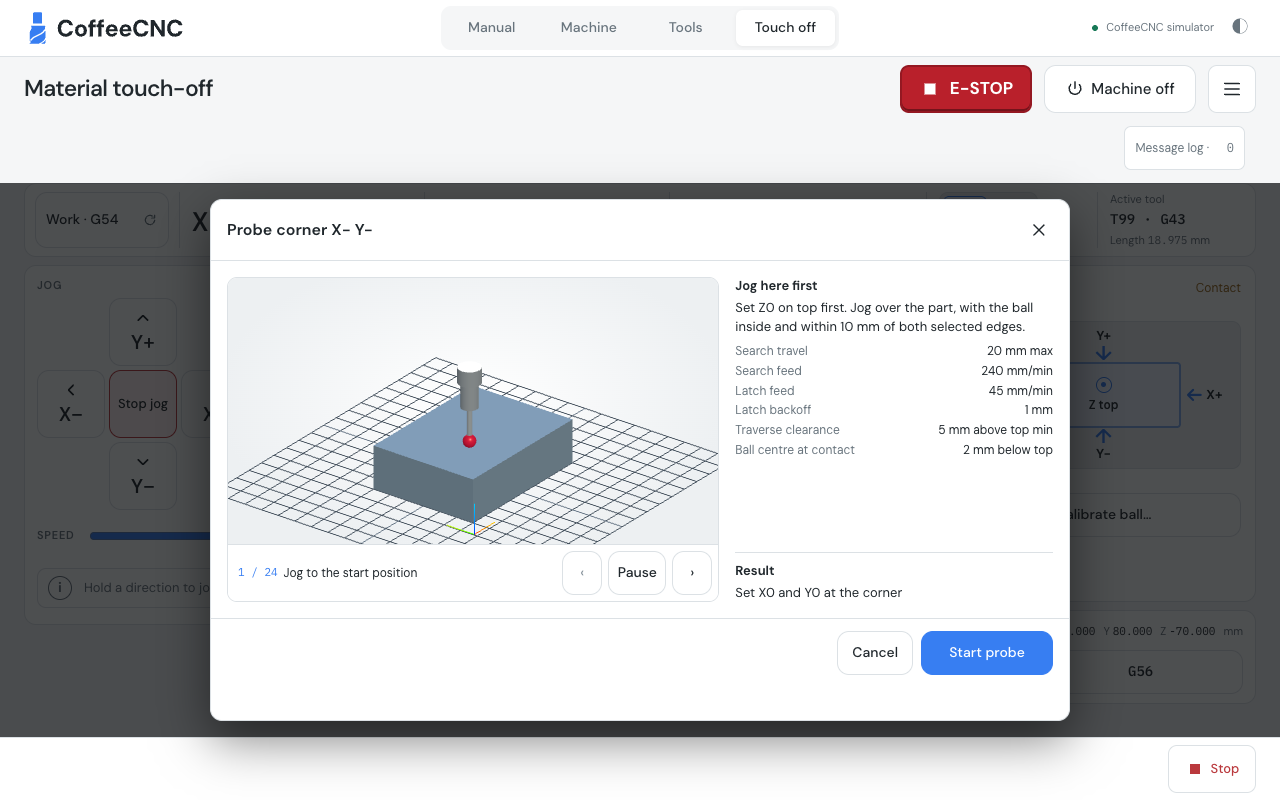
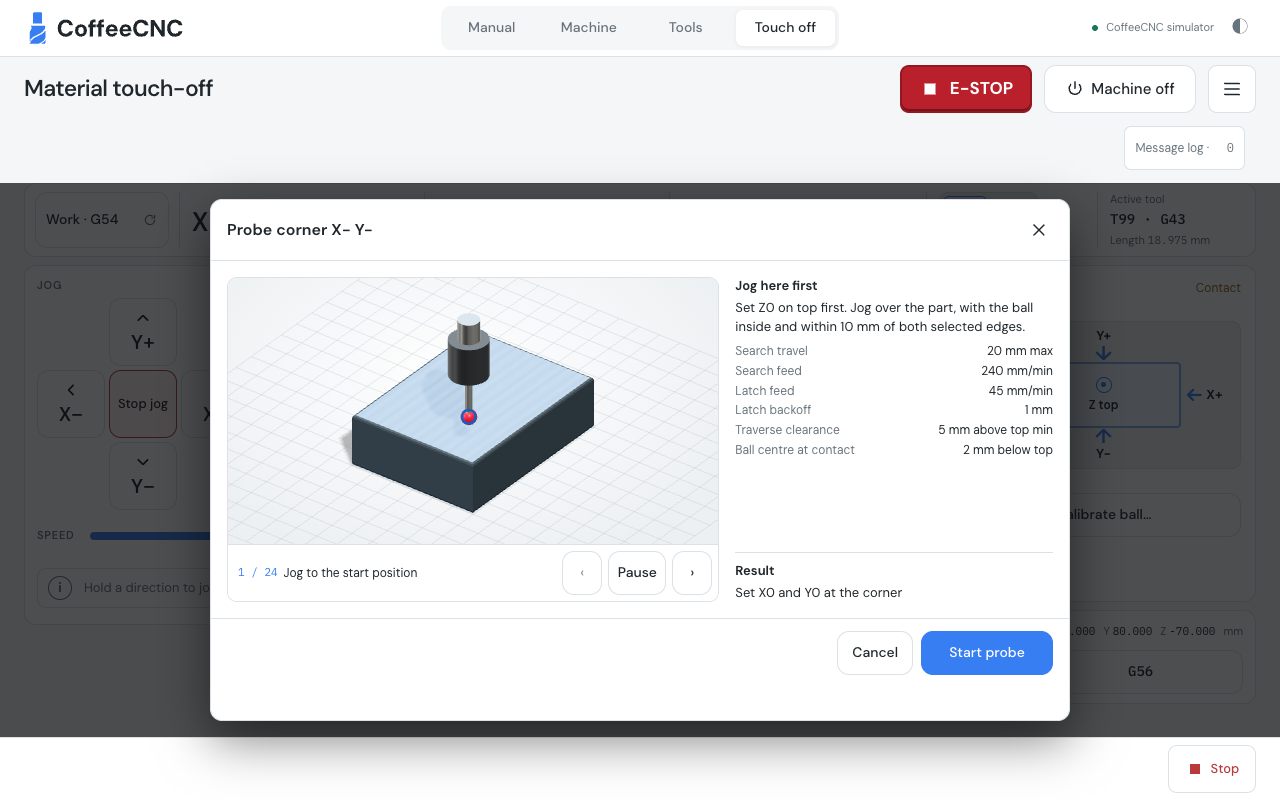
Refine probe guides with machined materials and fitted 3D views

Changed region(s): [[0.1875, 0.375, 0.5625, 0.6875]]

diff --git a/ui/src/components/ProbeGuideCanvas.vue b/ui/src/components/ProbeGuideCanvas.vue
@@ -1,14 +1,16 @@
 <script setup lang="ts">
 import { onBeforeUnmount, onMounted, ref, useTemplateRef, watch } from 'vue'
 import {
-  AmbientLight, AxesHelper, BoxGeometry, BufferGeometry, CylinderGeometry, DirectionalLight,
-  ExtrudeGeometry, Float32BufferAttribute, GridHelper, Group, Line, LineBasicMaterial, Mesh,
-  MeshStandardMaterial, OrthographicCamera, Path, Scene, Shape, SphereGeometry, Vector3, WebGLRenderer,
+  Box3, BufferGeometry, DataTexture, DirectionalLight, ExtrudeGeometry, Float32BufferAttribute, GridHelper, Group,
+  HemisphereLight, LatheGeometry, Line, LineBasicMaterial, LinearFilter, LinearMipmapLinearFilter, Mesh,
+  MeshBasicMaterial, MeshStandardMaterial, NeutralToneMapping, OrthographicCamera, Path, PCFShadowMap,
+  PlaneGeometry, RepeatWrapping, RingGeometry, Scene, ShadowMaterial, Shape, SRGBColorSpace, Vector2, Vector3, WebGLRenderer,
 } from 'three'
 import { theme } from '../appearance'
 import { syncModelCamera } from '../model-camera'
-import { orbit, type Camera } from '../pathview'
+import { basis, orbit, type Camera } from '../pathview'
 import type { ProbeGuidePlan, ProbeGuideStep } from '../probe-guide'
+import { ToolMesh } from '../tool-mesh'
 
 const props = defineProps<{ plan: ProbeGuidePlan; playing: boolean; ruby: boolean }>()
 const emit = defineEmits<{ step: [index: number]; unavailable: [] }>()
@@ -17,25 +19,55 @@ const failed = ref(false)
 const scene = new Scene()
 const stage = new Group()
 const tool = new Group()
+const toolMesh = new ToolMesh()
 const camera = new OrthographicCamera()
-const view: Camera = { azimuth: -0.88, elevation: 0.47, scale: 1, centre: [0, 0, 7] }
-const grid = new GridHelper(108, 18, 0x687787, 0x47535f)
-const axes = new AxesHelper(10)
-const stockMaterial = new MeshStandardMaterial({ color: 0x8195a5, metalness: 0.22, roughness: 0.62 })
-const steel = new MeshStandardMaterial({ color: 0xb5c3ce, metalness: 0.57, roughness: 0.33 })
-const rubyMaterial = new MeshStandardMaterial({ color: 0xcf173d, metalness: 0.16, roughness: 0.25 })
-const gold = new MeshStandardMaterial({ color: 0xeeab34, metalness: 0.25, roughness: 0.48 })
-const contactMaterial = new MeshStandardMaterial({ color: 0xffb432, emissive: 0xb25514, emissiveIntensity: 0.65 })
-const datumMaterial = new MeshStandardMaterial({ color: 0x3addbc, emissive: 0x19745e, emissiveIntensity: 0.7 })
-const contact = new Mesh(new SphereGeometry(1.1, 16, 12), contactMaterial)
-const datum = new Mesh(new SphereGeometry(1, 16, 12), datumMaterial)
-const start = new Mesh(new SphereGeometry(0.7, 14, 10), datumMaterial)
+const view: Camera = { azimuth: -0.88, elevation: 0.60, scale: 1, centre: [0, 0, 9] }
+const grid = new GridHelper(132, 22, 0x7490a5, 0x7490a5)
+const floor = new Mesh(new PlaneGeometry(240, 240), new ShadowMaterial({ opacity: 0.26 }))
+const stockMaterial = new MeshStandardMaterial({ metalness: 0.49, roughness: 0.38 })
+const machinedTop = stockMaterial.clone()
+const walls = new MeshStandardMaterial({ color: 0x8098aa, metalness: 0.43, roughness: 0.47 })
+const baseMaterial = new MeshStandardMaterial({ color: 0x394653, metalness: 0.5, roughness: 0.42 })
+const plunger = new MeshStandardMaterial({ color: 0xedb160, metalness: 0.55, roughness: 0.32 })
+const key = new DirectionalLight(0xfff5e9, 2.7)
+
+function brushedFinish(): DataTexture {
+  const size = 64
+  const pixels = new Uint8Array(size * size * 4)
+  for (let y = 0; y < size; y++) {
+    const phase = 2 * Math.PI * y / size
+    const shade = Math.round(242 + 7 * Math.cos(12 * phase) + 3 * Math.cos(19 * phase))
+    for (let x = 0; x < size; x++) pixels.set([shade, shade, shade, 255], 4 * (y * size + x))
+  }
+  const texture = new DataTexture(pixels, size, size)
+  texture.colorSpace = SRGBColorSpace
+  texture.wrapS = texture.wrapT = RepeatWrapping
+  texture.repeat.set(1 / 48, 1 / 36)
+  texture.magFilter = LinearFilter
+  texture.minFilter = LinearMipmapLinearFilter
+  texture.generateMipmaps = true
+  texture.needsUpdate = true
+  return texture
+}
+
+const finish = brushedFinish()
+machinedTop.map = finish
+
+function marker(color: number, radius: number): Mesh<RingGeometry, MeshBasicMaterial> {
+  const mesh = new Mesh(new RingGeometry(radius * 0.71, radius, 40),
+    new MeshBasicMaterial({ color, transparent: true, opacity: 0.95, depthTest: false, depthWrite: false }))
+  mesh.renderOrder = 3
+  return mesh
+}
+
+const contact = marker(0xffb74a, 2.4)
+const datum = marker(0x28dec0, 2.55)
+const start = marker(0x6fbaff, 1.9)
 const track = new BufferGeometry()
 const trackPoints = new Float32BufferAttribute(new Float32Array(6), 3)
 track.setAttribute('position', trackPoints)
 const trace = new Line(track, new LineBasicMaterial({ color: 0x44aefe, transparent: true, opacity: 0.92 }))
 trace.frustumCulled = false
-let stock: Mesh | null = null
 let renderer: WebGLRenderer | null = null
 let resize: ResizeObserver | null = null
 let frame = 0
@@ -44,42 +76,70 @@ let phaseIndex = 0
 let phaseTime = 0
 let drag: { id: number; x: number; y: number } | null = null
 let measuredEdge: [Vector3, Vector3] | null = null
+let framing: Vector3[] = []
 
-function cylinder(radius: number, height: number, color: MeshStandardMaterial, z: number): Mesh {
-  const mesh = new Mesh(new CylinderGeometry(radius, radius, height, 48), color)
-  mesh.rotation.x = Math.PI / 2
-  mesh.position.z = z
+function corners({ min, max }: Box3): Vector3[] {
+  return [min.x, max.x].flatMap(x => [min.y, max.y].flatMap(y => [min.z, max.z].map(z => new Vector3(x, y, z))))
+}
+
+function turned(profile: readonly [number, number][], material: MeshStandardMaterial): Mesh {
+  const geometry = new LatheGeometry(profile.map(([radius, z]) => new Vector2(radius, z)), 64)
+  const mesh = new Mesh(geometry.rotateX(Math.PI / 2), material)
+  mesh.castShadow = true
+  mesh.receiveShadow = true
   return mesh
 }
 
-function makeStock(): Mesh {
+function makeStock(): void {
   switch (props.plan.object) {
-    case 'bore': {
-      const shape = new Shape().moveTo(-24, -18).lineTo(24, -18).lineTo(24, 18).lineTo(-24, 18).closePath()
-      shape.holes.push(new Path().absarc(0, 0, 13, 0, 2 * Math.PI, true))
-      const mesh = new Mesh(new ExtrudeGeometry(shape, { depth: 14, bevelEnabled: false, curveSegments: 32 }), stockMaterial)
-      mesh.position.z = -14
-      return mesh
-    }
-    case 'boss': return cylinder(14, 14, stockMaterial, -7)
-    case 'setter': return cylinder(10, 12, gold, -6)
+    case 'boss':
+      stage.add(turned([[0, -14], [13.6, -14], [14, -13.6], [14, -0.55], [13.45, 0], [0, 0]], stockMaterial))
+      break
+    case 'setter':
+      stage.add(turned([[0, -14], [12, -14], [12.8, -13], [12.8, -5], [12, -4], [0, -4]], baseMaterial),
+        turned([[0, -4], [8, -4], [9.5, -2.5], [9.5, -0.7], [8.8, 0], [0, 0]], plunger))
+      break
+    case 'bore':
     case 'stock':
     case 'gauge': {
-      const mesh = new Mesh(new BoxGeometry(props.plan.object === 'gauge' ? 28 : 48, 36, 14), stockMaterial)
-      mesh.position.z = -7
-      return mesh
+      const bevel = 0.65
+      const x = (props.plan.object === 'gauge' ? 14 : 24) - bevel
+      const y = 18 - bevel
+      const shape = new Shape().moveTo(-x, -y).lineTo(x, -y).lineTo(x, y).lineTo(-x, y).closePath()
+      if (props.plan.object === 'bore') shape.holes.push(new Path().absarc(0, 0, 13, 0, 2 * Math.PI, true))
+      const geometry = new ExtrudeGeometry(shape, { depth: 14 - 2 * bevel, bevelThickness: bevel,
+        bevelSize: bevel, bevelSegments: 2, curveSegments: 48, steps: 1 })
+      const stock = new Mesh(geometry, [machinedTop, walls])
+      stock.position.z = -14 + bevel
+      stock.castShadow = true
+      stock.receiveShadow = true
+      stage.add(stock)
+      break
     }
   }
 }
 
-function build(): void {
-  if (stock !== null) {
-    stage.remove(stock)
-    stock.geometry.dispose()
+function clearStock(): void {
+  for (const part of stage.children) {
+    if (part instanceof Mesh) {
+      const geometry: unknown = part.geometry
+      if (geometry instanceof BufferGeometry) geometry.dispose()
+    }
   }
-  stock = makeStock()
-  stock.rotation.z += props.plan.rotation
-  stage.add(stock)
+  stage.clear()
+}
+
+function build(): void {
+  clearStock()
+  makeStock()
+  stage.rotation.z = props.plan.rotation
+  view.elevation = props.plan.object === 'bore' ? 0.85 : 0.57
+  const toolBounds = corners(new Box3().setFromObject(toolMesh.group)).map(point => point.sub(tool.position))
+  framing = corners(new Box3().setFromObject(stage))
+  for (const step of props.plan.steps) {
+    const position = new Vector3(...step.point)
+    framing.push(...toolBounds.map(point => point.clone().add(position)))
+  }
   if (props.plan.steps[0]) start.position.set(...props.plan.steps[0].point)
   datum.position.set(...props.plan.datum)
   const [x, y] = props.plan.datum
@@ -121,6 +181,7 @@ function draw(): void {
   if (step.contact) contact.position.set(...step.contact)
   datum.visible = step.kind === 'result'
   start.visible = step.kind === 'start'
+  for (const cue of [contact, datum, start]) cue.quaternion.copy(camera.quaternion)
   renderer.render(scene, camera)
 }
 
@@ -150,8 +211,16 @@ function setView(): void {
   if (renderer === null || surface === null) return
   const width = surface.clientWidth
   const height = surface.clientHeight
-  if (width <= 0 || height <= 0) return
-  view.scale = Math.min(width / 112, height / 77)
+  if (width <= 48 || height <= 40) return
+  const { right, up } = basis(view)
+  const horizontal = new Vector3(...right)
+  const vertical = new Vector3(...up)
+  const x = framing.map(point => point.dot(horizontal))
+  const y = framing.map(point => point.dot(vertical))
+  const left = Math.min(...x), rightEdge = Math.max(...x)
+  const bottom = Math.min(...y), top = Math.max(...y)
+  view.scale = Math.min((width - 48) / (rightEdge - left), (height - 40) / (top - bottom), 4.2)
+  view.centre = horizontal.multiplyScalar((left + rightEdge) / 2).addScaledVector(vertical, (bottom + top) / 2).toArray()
   syncModelCamera(camera, view, width, height, 110)
   renderer.setPixelRatio(Math.min(window.devicePixelRatio, 2))
   renderer.setSize(width, height, false)
@@ -159,7 +228,15 @@ function setView(): void {
 }
 
 function applyTheme(): void {
-  stockMaterial.color.setHex(theme.value === 'dark' ? 0x7895ab : 0x728b9e)
+  const dark = theme.value === 'dark'
+  stockMaterial.color.setHex(dark ? 0xaeb8c1 : 0xabb5bc)
+  machinedTop.color.copy(stockMaterial.color)
+  walls.color.setHex(dark ? 0x8299ab : 0x8394a1)
+  grid.material.opacity = dark ? 0.19 : 0.17
+  contact.material.color.setHex(dark ? 0xffbc57 : 0xc66a14)
+  datum.material.color.setHex(dark ? 0x3edac5 : 0x007b68)
+  start.material.color.setHex(dark ? 0x6fbaff : 0x216ece)
+  toolMesh.setTheme(dark)
   draw()
 }
 
@@ -191,20 +268,39 @@ onMounted(() => {
   try {
     renderer = new WebGLRenderer({ canvas: surface, alpha: true, antialias: true })
     renderer.setClearColor(0, 0)
-    const light = new DirectionalLight(0xffeed5, 2.5)
-    light.position.set(-45, -64, 82)
-    const rim = new DirectionalLight(0xaacfff, 1.45)
-    rim.position.set(50, 44, 25)
+    renderer.toneMapping = NeutralToneMapping
+    renderer.toneMappingExposure = 0.94
+    renderer.shadowMap.enabled = true
+    renderer.shadowMap.type = PCFShadowMap
+    key.position.set(-42, -50, 72)
+    key.castShadow = true
+    key.shadow.camera.left = key.shadow.camera.bottom = -57
+    key.shadow.camera.right = key.shadow.camera.top = 57
+    key.shadow.camera.far = 160
+    key.shadow.normalBias = 0.12
+    key.shadow.radius = 3
+    key.shadow.mapSize.set(512, 512)
+    const rim = new DirectionalLight(0xe2f0ff, 1.2)
+    rim.position.set(48, 44, 62)
     grid.rotation.x = Math.PI / 2
     grid.position.z = -14.1
-    axes.position.set(-30, -23, -13.9)
-    if (props.ruby) {
-      tool.add(new Mesh(new SphereGeometry(2, 24, 18), rubyMaterial), cylinder(0.8, 9, steel, 6.5),
-        cylinder(2.7, 9, steel, 15.5), cylinder(3.6, 5, steel, 21.5))
-    } else {
-      tool.add(cylinder(2.5, 16, steel, 10), cylinder(3.4, 8, steel, 22))
-    }
-    scene.add(new AmbientLight(0xffffff, 1.65), light, rim, grid, axes, stage, tool, contact, datum, start, trace)
+    grid.material.transparent = true
+    grid.material.depthWrite = false
+    floor.position.z = -14.2
+    floor.receiveShadow = true
+    toolMesh.build(props.ruby
+      ? { family: 'touch-probe', dimensions: { diameter: 4, bodyDiameter: 10, bodyLength: 10,
+        stylusLength: 10, shankDiameter: 5.5 }, nominalDiameter: false, customized: false }
+      : { family: 'end-mill', dimensions: { diameter: 5, cuttingLength: 10, shankDiameter: 5,
+        overallLength: 24, stickout: 19, tipAngle: 90 }, nominalDiameter: false, customized: false })
+    toolMesh.group.position.z = -2
+    toolMesh.group.traverse(node => {
+      if (node instanceof Mesh) node.castShadow = true
+      else if (node instanceof Line) node.visible = false
+    })
+    toolMesh.light(renderer)
+    tool.add(toolMesh.group)
+    scene.add(new HemisphereLight(0xe9f4ff, 0x565562, 1.35), key, rim, floor, grid, stage, tool, contact, datum, start, trace)
     build()
     surface.addEventListener('webglcontextlost', lost)
     resize = new ResizeObserver(setView)
@@ -221,16 +317,18 @@ onBeforeUnmount(() => {
   cancelAnimationFrame(frame)
   resize?.disconnect()
   canvas.value?.removeEventListener('webglcontextlost', lost)
-  scene.traverse(node => {
-    if (node === grid || node === axes) return
-    if (node instanceof Mesh || node instanceof Line) {
-      const geometry: unknown = node.geometry
-      if (geometry instanceof BufferGeometry) geometry.dispose()
-    }
-  })
-  for (const material of [stockMaterial, steel, rubyMaterial, gold, contactMaterial, datumMaterial, trace.material]) material.dispose()
+  clearStock()
+  toolMesh.dispose()
+  for (const cue of [contact, datum, start]) {
+    cue.geometry.dispose()
+    cue.material.dispose()
+  }
+  for (const material of [stockMaterial, machinedTop, walls, baseMaterial, plunger, floor.material, trace.material]) material.dispose()
+  finish.dispose()
+  floor.geometry.dispose()
+  track.dispose()
   grid.dispose()
-  axes.dispose()
+  key.shadow.dispose()
   renderer?.dispose()
   renderer?.forceContextLoss()
 })
@@ -247,7 +345,7 @@ onBeforeUnmount(() => {
 </template>
 
 <style scoped>
-.guide-canvas { position: relative; min-height: 0; min-width: 0; overflow: hidden; background: radial-gradient(ellipse at 50% 46%, var(--panel-raised), var(--bg-sunken) 74%); }
+.guide-canvas { position: relative; min-height: 0; min-width: 0; overflow: hidden; background: radial-gradient(ellipse at 47% 38%, var(--panel-raised), var(--bg-sunken) 82%); }
 canvas { display: block; width: 100%; height: 100%; cursor: grab; touch-action: none; }
 canvas:active { cursor: grabbing; }
 .unavailable { position: absolute; inset: 0; display: grid; place-items: center; margin: 0; padding: 30px; color: var(--warn); text-align: center; }
